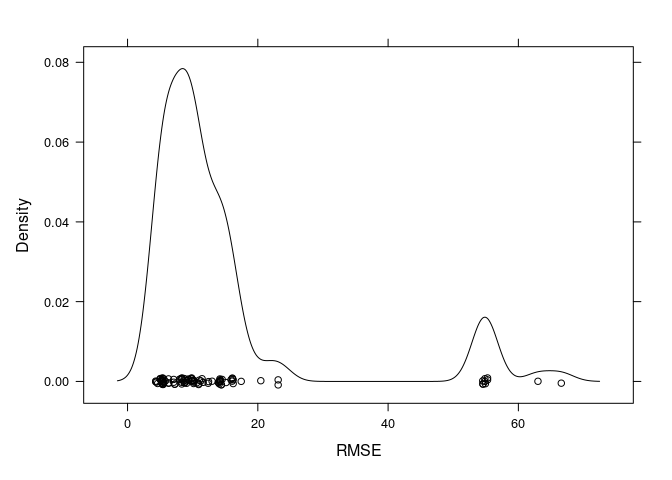
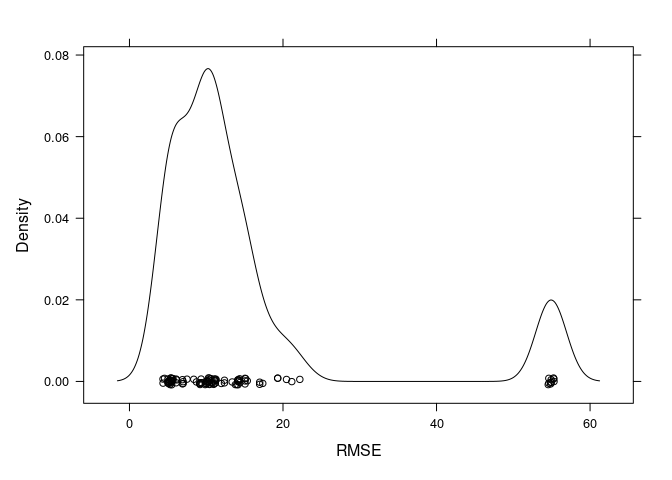
final deploy

diff --git a/README.md b/README.md
@@ -105,10 +105,10 @@ model_training_time_series <- trainControl(method = "timeslice",
 model_training_10kfold <- trainControl(method = "repeatedcv",
     number = 10, repeats = 10)
 # animation of 10-kfold method:
-animation::cv.ani(k = 10)
+knitr::include_graphics(path = "animation.gif")
 ```
 
-![](darkwoods_beetles_files/figure-gfm/unnamed-chunk-4-1.png)<!-- -->![](darkwoods_beetles_files/figure-gfm/unnamed-chunk-4-2.png)<!-- -->![](darkwoods_beetles_files/figure-gfm/unnamed-chunk-4-3.png)<!-- -->![](darkwoods_beetles_files/figure-gfm/unnamed-chunk-4-4.png)<!-- -->![](darkwoods_beetles_files/figure-gfm/unnamed-chunk-4-5.png)<!-- -->![](darkwoods_beetles_files/figure-gfm/unnamed-chunk-4-6.png)<!-- -->![](darkwoods_beetles_files/figure-gfm/unnamed-chunk-4-7.png)<!-- -->![](darkwoods_beetles_files/figure-gfm/unnamed-chunk-4-8.png)<!-- -->![](darkwoods_beetles_files/figure-gfm/unnamed-chunk-4-9.png)<!-- -->![](darkwoods_beetles_files/figure-gfm/unnamed-chunk-4-10.png)<!-- -->
+![](animation.gif)<!-- -->
 
 ### 1.4 Model Tuning
 
@@ -231,8 +231,8 @@ svm_ndmi_linear
     Summary of sample sizes: 18, 18, 18, 18, 18, 18, ... 
     Resampling results:
 
-      RMSE      Rsquared  MAE     
-      14.69891  1         12.84142
+      RMSE     Rsquared  MAE    
+      14.7918  1         12.8896
 
     Tuning parameter 'C' was held constant at a value of 1
 
@@ -267,13 +267,13 @@ svm_taswet_linear$finalModel
     Support Vector Machine object of class "ksvm" 
 
     SV type: eps-svr  (regression) 
-     parameter : epsilon = 0.1  cost C = 3 
+     parameter : epsilon = 0.1  cost C = 1.26315789473684 
 
     Linear (vanilla) kernel function. 
 
     Number of Support Vectors : 19 
 
-    Objective Function Value : -39.3525 
+    Objective Function Value : -16.603 
     Training error : 1.103527 
 
 ``` r
@@ -300,28 +300,28 @@ svm_tasgreen_linear
 
       C          RMSE      Rsquared  MAE     
       0.0000000       NaN  NaN            NaN
-      0.1578947  14.90197    1       12.86992
-      0.3157895  14.77472    1       12.80648
-      0.4736842  14.70217    1       12.76627
-      0.6315789  14.65575    1       12.72341
-      0.7894737  14.60836    1       12.68705
-      0.9473684  14.58204    1       12.64617
-      1.1052632  14.56585    1       12.62416
-      1.2631579  14.55356    1       12.60746
-      1.4210526  14.52967    1       12.58102
-      1.5789474  14.51433    1       12.56374
-      1.7368421  14.50950    1       12.55841
-      1.8947368  14.50782    1       12.55475
-      2.0526316  14.50454    1       12.55124
-      2.2105263  14.50751    1       12.54916
-      2.3684211  14.51457    1       12.54999
-      2.5263158  14.52341    1       12.55346
-      2.6842105  14.52609    1       12.55586
-      2.8421053  14.52776    1       12.55606
-      3.0000000  14.52750    1       12.55564
+      0.1578947  14.81055    1       12.88699
+      0.3157895  14.66764    1       12.79469
+      0.4736842  14.60755    1       12.74808
+      0.6315789  14.56003    1       12.72289
+      0.7894737  14.47601    1       12.66325
+      0.9473684  14.46474    1       12.62098
+      1.1052632  14.44848    1       12.59831
+      1.2631579  14.44000    1       12.58536
+      1.4210526  14.43257    1       12.57673
+      1.5789474  14.43082    1       12.57485
+      1.7368421  14.42996    1       12.57169
+      1.8947368  14.42620    1       12.56361
+      2.0526316  14.41957    1       12.55650
+      2.2105263  14.42045    1       12.54937
+      2.3684211  14.40999    1       12.53383
+      2.5263158  14.41096    1       12.53437
+      2.6842105  14.41146    1       12.53404
+      2.8421053  14.41318    1       12.53438
+      3.0000000  14.41287    1       12.53382
 
     RMSE was used to select the optimal model using the smallest value.
-    The final value used for the model was C = 2.052632.
+    The final value used for the model was C = 2.368421.
 
 ``` r
 svm_tasgreen_linear$finalModel
@@ -330,13 +330,13 @@ svm_tasgreen_linear$finalModel
     Support Vector Machine object of class "ksvm" 
 
     SV type: eps-svr  (regression) 
-     parameter : epsilon = 0.1  cost C = 2.05263157894737 
+     parameter : epsilon = 0.1  cost C = 2.36842105263158 
 
     Linear (vanilla) kernel function. 
 
     Number of Support Vectors : 19 
 
-    Objective Function Value : -26.9466 
+    Objective Function Value : -31.0799 
     Training error : 1.131827 
 
 ``` r
@@ -363,28 +363,28 @@ svm_tasbright_linear
 
       C          RMSE      Rsquared  MAE     
       0.0000000       NaN  NaN            NaN
-      0.1578947  14.99098    1       12.99043
-      0.3157895  14.79765    1       12.86416
-      0.4736842  14.74247    1       12.84075
-      0.6315789  14.76346    1       12.86317
-      0.7894737  14.78402    1       12.88477
-      0.9473684  14.78283    1       12.88239
-      1.1052632  14.77783    1       12.87731
-      1.2631579  14.77431    1       12.87459
-      1.4210526  14.78552    1       12.87912
-      1.5789474  14.78877    1       12.88261
-      1.7368421  14.78871    1       12.88253
-      1.8947368  14.78872    1       12.88256
-      2.0526316  14.78306    1       12.87925
-      2.2105263  14.77945    1       12.87443
-      2.3684211  14.76153    1       12.86962
-      2.5263158  14.75282    1       12.86474
-      2.6842105  14.74776    1       12.85998
-      2.8421053  14.73937    1       12.85519
-      3.0000000  14.73953    1       12.85594
+      0.1578947  14.60487    1       13.07723
+      0.3157895  14.51137    1       13.03732
+      0.4736842  14.47029    1       13.00260
+      0.6315789  14.45903    1       12.97040
+      0.7894737  14.46214    1       12.95190
+      0.9473684  14.47403    1       12.96633
+      1.1052632  14.47228    1       12.96696
+      1.2631579  14.47087    1       12.96006
+      1.4210526  14.47802    1       12.96429
+      1.5789474  14.47907    1       12.95929
+      1.7368421  14.48107    1       12.96214
+      1.8947368  14.48548    1       12.96643
+      2.0526316  14.48540    1       12.96876
+      2.2105263  14.48361    1       12.96639
+      2.3684211  14.47465    1       12.96399
+      2.5263158  14.47036    1       12.96158
+      2.6842105  14.46768    1       12.95914
+      2.8421053  14.46356    1       12.95672
+      3.0000000  14.46132    1       12.95451
 
     RMSE was used to select the optimal model using the smallest value.
-    The final value used for the model was C = 2.842105.
+    The final value used for the model was C = 0.6315789.
 
 ``` r
 svm_tasbright_linear$finalModel
@@ -393,13 +393,13 @@ svm_tasbright_linear$finalModel
     Support Vector Machine object of class "ksvm" 
 
     SV type: eps-svr  (regression) 
-     parameter : epsilon = 0.1  cost C = 2.84210526315789 
+     parameter : epsilon = 0.1  cost C = 0.631578947368421 
 
     Linear (vanilla) kernel function. 
 
     Number of Support Vectors : 19 
 
-    Objective Function Value : -37.5788 
+    Objective Function Value : -8.4089 
     Training error : 1.120976 
 
 ``` r

diff --git a/darkwoods_beetles.md b/darkwoods_beetles.md
@@ -105,10 +105,10 @@ model_training_time_series <- trainControl(method = "timeslice",
 model_training_10kfold <- trainControl(method = "repeatedcv",
     number = 10, repeats = 10)
 # animation of 10-kfold method:
-animation::cv.ani(k = 10)
+knitr::include_graphics(path = "animation.gif")
 ```
 
-![](darkwoods_beetles_files/figure-gfm/unnamed-chunk-4-1.png)<!-- -->![](darkwoods_beetles_files/figure-gfm/unnamed-chunk-4-2.png)<!-- -->![](darkwoods_beetles_files/figure-gfm/unnamed-chunk-4-3.png)<!-- -->![](darkwoods_beetles_files/figure-gfm/unnamed-chunk-4-4.png)<!-- -->![](darkwoods_beetles_files/figure-gfm/unnamed-chunk-4-5.png)<!-- -->![](darkwoods_beetles_files/figure-gfm/unnamed-chunk-4-6.png)<!-- -->![](darkwoods_beetles_files/figure-gfm/unnamed-chunk-4-7.png)<!-- -->![](darkwoods_beetles_files/figure-gfm/unnamed-chunk-4-8.png)<!-- -->![](darkwoods_beetles_files/figure-gfm/unnamed-chunk-4-9.png)<!-- -->![](darkwoods_beetles_files/figure-gfm/unnamed-chunk-4-10.png)<!-- -->
+![](animation.gif)<!-- -->
 
 ### 1.4 Model Tuning
 
@@ -231,8 +231,8 @@ svm_ndmi_linear
     Summary of sample sizes: 18, 18, 18, 18, 18, 18, ... 
     Resampling results:
 
-      RMSE      Rsquared  MAE     
-      14.69891  1         12.84142
+      RMSE     Rsquared  MAE    
+      14.7918  1         12.8896
 
     Tuning parameter 'C' was held constant at a value of 1
 
@@ -267,13 +267,13 @@ svm_taswet_linear$finalModel
     Support Vector Machine object of class "ksvm" 
 
     SV type: eps-svr  (regression) 
-     parameter : epsilon = 0.1  cost C = 3 
+     parameter : epsilon = 0.1  cost C = 1.26315789473684 
 
     Linear (vanilla) kernel function. 
 
     Number of Support Vectors : 19 
 
-    Objective Function Value : -39.3525 
+    Objective Function Value : -16.603 
     Training error : 1.103527 
 
 ``` r
@@ -300,28 +300,28 @@ svm_tasgreen_linear
 
       C          RMSE      Rsquared  MAE     
       0.0000000       NaN  NaN            NaN
-      0.1578947  14.90197    1       12.86992
-      0.3157895  14.77472    1       12.80648
-      0.4736842  14.70217    1       12.76627
-      0.6315789  14.65575    1       12.72341
-      0.7894737  14.60836    1       12.68705
-      0.9473684  14.58204    1       12.64617
-      1.1052632  14.56585    1       12.62416
-      1.2631579  14.55356    1       12.60746
-      1.4210526  14.52967    1       12.58102
-      1.5789474  14.51433    1       12.56374
-      1.7368421  14.50950    1       12.55841
-      1.8947368  14.50782    1       12.55475
-      2.0526316  14.50454    1       12.55124
-      2.2105263  14.50751    1       12.54916
-      2.3684211  14.51457    1       12.54999
-      2.5263158  14.52341    1       12.55346
-      2.6842105  14.52609    1       12.55586
-      2.8421053  14.52776    1       12.55606
-      3.0000000  14.52750    1       12.55564
+      0.1578947  14.81055    1       12.88699
+      0.3157895  14.66764    1       12.79469
+      0.4736842  14.60755    1       12.74808
+      0.6315789  14.56003    1       12.72289
+      0.7894737  14.47601    1       12.66325
+      0.9473684  14.46474    1       12.62098
+      1.1052632  14.44848    1       12.59831
+      1.2631579  14.44000    1       12.58536
+      1.4210526  14.43257    1       12.57673
+      1.5789474  14.43082    1       12.57485
+      1.7368421  14.42996    1       12.57169
+      1.8947368  14.42620    1       12.56361
+      2.0526316  14.41957    1       12.55650
+      2.2105263  14.42045    1       12.54937
+      2.3684211  14.40999    1       12.53383
+      2.5263158  14.41096    1       12.53437
+      2.6842105  14.41146    1       12.53404
+      2.8421053  14.41318    1       12.53438
+      3.0000000  14.41287    1       12.53382
 
     RMSE was used to select the optimal model using the smallest value.
-    The final value used for the model was C = 2.052632.
+    The final value used for the model was C = 2.368421.
 
 ``` r
 svm_tasgreen_linear$finalModel
@@ -330,13 +330,13 @@ svm_tasgreen_linear$finalModel
     Support Vector Machine object of class "ksvm" 
 
     SV type: eps-svr  (regression) 
-     parameter : epsilon = 0.1  cost C = 2.05263157894737 
+     parameter : epsilon = 0.1  cost C = 2.36842105263158 
 
     Linear (vanilla) kernel function. 
 
     Number of Support Vectors : 19 
 
-    Objective Function Value : -26.9466 
+    Objective Function Value : -31.0799 
     Training error : 1.131827 
 
 ``` r
@@ -363,28 +363,28 @@ svm_tasbright_linear
 
       C          RMSE      Rsquared  MAE     
       0.0000000       NaN  NaN            NaN
-      0.1578947  14.99098    1       12.99043
-      0.3157895  14.79765    1       12.86416
-      0.4736842  14.74247    1       12.84075
-      0.6315789  14.76346    1       12.86317
-      0.7894737  14.78402    1       12.88477
-      0.9473684  14.78283    1       12.88239
-      1.1052632  14.77783    1       12.87731
-      1.2631579  14.77431    1       12.87459
-      1.4210526  14.78552    1       12.87912
-      1.5789474  14.78877    1       12.88261
-      1.7368421  14.78871    1       12.88253
-      1.8947368  14.78872    1       12.88256
-      2.0526316  14.78306    1       12.87925
-      2.2105263  14.77945    1       12.87443
-      2.3684211  14.76153    1       12.86962
-      2.5263158  14.75282    1       12.86474
-      2.6842105  14.74776    1       12.85998
-      2.8421053  14.73937    1       12.85519
-      3.0000000  14.73953    1       12.85594
+      0.1578947  14.60487    1       13.07723
+      0.3157895  14.51137    1       13.03732
+      0.4736842  14.47029    1       13.00260
+      0.6315789  14.45903    1       12.97040
+      0.7894737  14.46214    1       12.95190
+      0.9473684  14.47403    1       12.96633
+      1.1052632  14.47228    1       12.96696
+      1.2631579  14.47087    1       12.96006
+      1.4210526  14.47802    1       12.96429
+      1.5789474  14.47907    1       12.95929
+      1.7368421  14.48107    1       12.96214
+      1.8947368  14.48548    1       12.96643
+      2.0526316  14.48540    1       12.96876
+      2.2105263  14.48361    1       12.96639
+      2.3684211  14.47465    1       12.96399
+      2.5263158  14.47036    1       12.96158
+      2.6842105  14.46768    1       12.95914
+      2.8421053  14.46356    1       12.95672
+      3.0000000  14.46132    1       12.95451
 
     RMSE was used to select the optimal model using the smallest value.
-    The final value used for the model was C = 2.842105.
+    The final value used for the model was C = 0.6315789.
 
 ``` r
 svm_tasbright_linear$finalModel
@@ -393,13 +393,13 @@ svm_tasbright_linear$finalModel
     Support Vector Machine object of class "ksvm" 
 
     SV type: eps-svr  (regression) 
-     parameter : epsilon = 0.1  cost C = 2.84210526315789 
+     parameter : epsilon = 0.1  cost C = 0.631578947368421 
 
     Linear (vanilla) kernel function. 
 
     Number of Support Vectors : 19 
 
-    Objective Function Value : -37.5788 
+    Objective Function Value : -8.4089 
     Training error : 1.120976 
 
 ``` r
